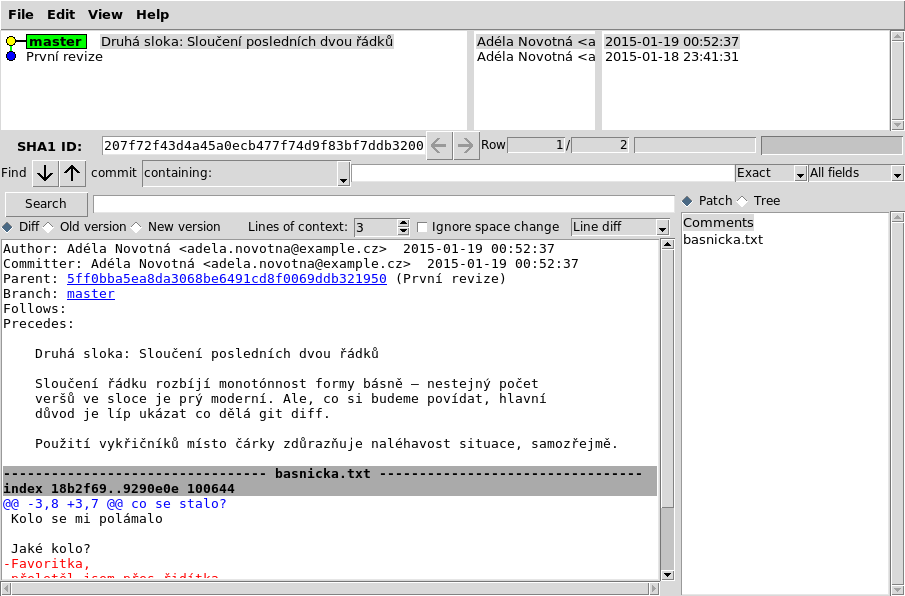
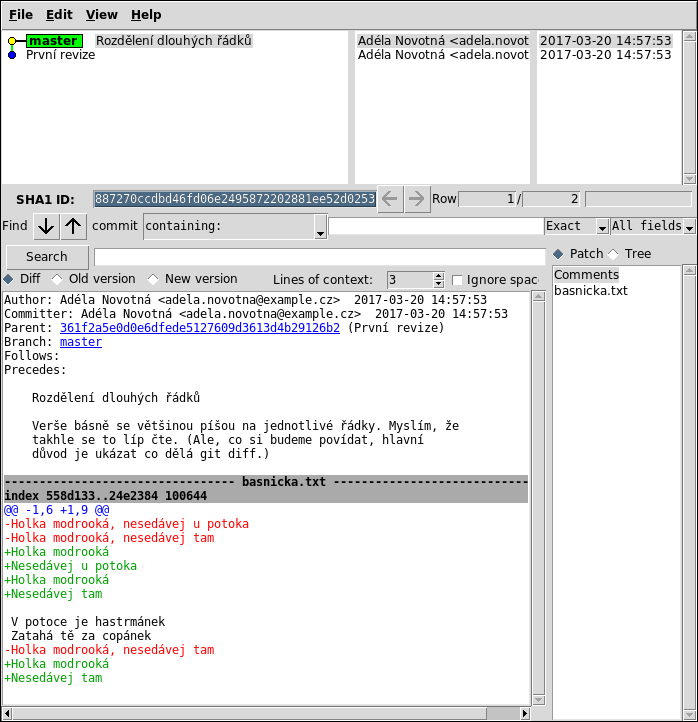
Use public-domain code example
Also, consolidate the example-generating script in one place

diff --git a/basics/index.md b/basics/index.md
@@ -141,8 +141,8 @@ Pojď tedy vytvořit revizi:
 
 ```ansi
 ␛[36m$␛[0m git commit
-[master (root-commit) 7465169] První revize
- 1 file changed, 11 insertions(+)
+[master (root-commit) 1a009f4] První revize
+ 1 file changed, 6 insertions(+)
  create mode 100644 basnicka.txt
 ```
 
@@ -196,29 +196,24 @@ To ti poví příkaz `git show`:
 
 ```ansi
 ␛[36m$␛[0m git show
-␛[33mcommit 7465169a16eb1ee39352ab3d23ced4d213960e9d␛[m
+␛[33mcommit 1a009f4267d5a6ab7ece87cb7514f5b803692e39␛[m
 Author: Adéla Novotná <adela.novotna@example.cz>
-Date:   Mon Mar 20 11:46:47 2017 +0100
+Date:   Mon Mar 20 14:51:34 2017 +0100
 
     První revize
 
 ␛[1mdiff --git a/basnicka.txt b/basnicka.txt␛[m
 ␛[1mnew file mode 100644␛[m
-␛[1mindex 0000000..18b2f69␛[m
+␛[1mindex 0000000..558d133␛[m
 ␛[1m--- /dev/null␛[m
 ␛[1m+++ b/basnicka.txt␛[m
-␛[36m@@ -0,0 +1,11 @@␛[m
-␛[32m+␛[m␛[32mHaló haló␛[m
-␛[32m+␛[m␛[32mco se stalo?␛[m
-␛[32m+␛[m␛[32mKolo se mi polámalo␛[m
+␛[36m@@ -0,0 +1,6 @@␛[m
+␛[32m+␛[m␛[32mHolka modrooká, nesedávej u potoka␛[m
+␛[32m+␛[m␛[32mHolka modrooká, nesedávej tam␛[m
 ␛[32m+␛[m
-␛[32m+␛[m␛[32mJaké kolo?␛[m
-␛[32m+␛[m␛[32mFavoritka,␛[m
-␛[32m+␛[m␛[32mpřeletěl jsem přes řidítka␛[m
-␛[32m+␛[m
-␛[32m+␛[m␛[32mCo jste dělal?␛[m
-␛[32m+␛[m␛[32mBlbnul jsem,␛[m
-␛[32m+␛[m␛[32mdo příkopy zahnul jsem␛[m
+␛[32m+␛[m␛[32mV potoce je hastrmánek␛[m
+␛[32m+␛[m␛[32mZatahá tě za copánek␛[m
+␛[32m+␛[m␛[32mHolka modrooká, nesedávej tam␛[m
 ```
 
 Vidíš unikátní
@@ -258,19 +253,22 @@ Na to nám odpoví příkaz <code>git diff</code>.
 ```ansi
 ␛[36m$␛[0m git diff
 ␛[1mdiff --git a/basnicka.txt b/basnicka.txt␛[m
-␛[1mindex 18b2f69..9290e0e 100644␛[m
+␛[1mindex 558d133..24e2384 100644␛[m
 ␛[1m--- a/basnicka.txt␛[m
 ␛[1m+++ b/basnicka.txt␛[m
-␛[36m@@ -3,8 +3,7 @@␛[m ␛[mco se stalo?␛[m
- Kolo se mi polámalo␛[m
+␛[36m@@ -1,6 +1,9 @@␛[m
+␛[31m-Holka modrooká, nesedávej u potoka␛[m
+␛[31m-Holka modrooká, nesedávej tam␛[m
+␛[32m+␛[m␛[32mHolka modrooká␛[m
+␛[32m+␛[m␛[32mNesedávej u potoka␛[m
+␛[32m+␛[m␛[32mHolka modrooká␛[m
+␛[32m+␛[m␛[32mNesedávej tam␛[m
  ␛[m
- Jaké kolo?␛[m
-␛[31m-Favoritka,␛[m
-␛[31m-přeletěl jsem přes řidítka␛[m
-␛[32m+␛[m␛[32mFavoritka! Přeletěl jsem přes řidítka!␛[m
- ␛[m
- Co jste dělal?␛[m
- Blbnul jsem,␛[m
+ V potoce je hastrmánek␛[m
+ Zatahá tě za copánek␛[m
+␛[31m-Holka modrooká, nesedávej tam␛[m
+␛[32m+␛[m␛[32mHolka modrooká␛[m
+␛[32m+␛[m␛[32mNesedávej tam␛[m
 ```
 
 Změny se ukazují po řádcích.
@@ -332,13 +330,11 @@ Cokoli, co může přijít vhod až se změny bude snažit někdo pochopit.
 Můj popisek bude znít takhle:
 
 ```plain
-Druhá sloka: Sloučení posledních dvou řádků
+Rozdělení dlouhých řádků
 
-Sloučení řádků rozbíjí monotónnost formy básně – nestejný počet
-veršů ve sloce je prý moderní. (Ale, co si budeme povídat, hlavní 
-důvod je líp ukázat co dělá `git diff`.)
-
-Použití vykřičníku místo čárky zdůrazňuje naléhavost situace.
+Verše básně se většinou píšou na jednotlivé řádky. Myslím, že
+takhle se to líp čte. (Ale, co si budeme povídat, hlavní 
+důvod je ukázat co dělá git diff.)
 ```
 
 !!! note ""
@@ -353,32 +349,33 @@ Pak ji zkontroluj:
 
 ```ansi
 ␛[36m$␛[0m git show
-␛[33mcommit 303761b29fb6ef0bfd961b311131c224b918ffc5␛[m
+␛[33mcommit 81cbabb3bd3cd2f3896dd41b20012c44dbd69031␛[m
 Author: Adéla Novotná <adela.novotna@example.cz>
-Date:   Mon Mar 20 11:46:47 2017 +0100
+Date:   Mon Mar 20 14:51:34 2017 +0100
 
-    Druhá sloka: Sloučení posledních dvou řádků
+    Rozdělení dlouhých řádků
     
-    Sloučení řádků rozbíjí monotónnost formy básně – nestejný počet
-    veršů ve sloce je prý moderní. (Ale, co si budeme povídat, hlavní
-    důvod je líp ukázat co dělá `git diff`.)
-    
-    Použití vykřičníku místo čárky zdůrazňuje naléhavost situace.
+    Verše básně se většinou píšou na jednotlivé řádky. Myslím, že
+    takhle se to líp čte. (Ale, co si budeme povídat, hlavní
+    důvod je ukázat co dělá git diff.)
 
 ␛[1mdiff --git a/basnicka.txt b/basnicka.txt␛[m
-␛[1mindex 18b2f69..9290e0e 100644␛[m
+␛[1mindex 558d133..24e2384 100644␛[m
 ␛[1m--- a/basnicka.txt␛[m
 ␛[1m+++ b/basnicka.txt␛[m
-␛[36m@@ -3,8 +3,7 @@␛[m ␛[mco se stalo?␛[m
- Kolo se mi polámalo␛[m
+␛[36m@@ -1,6 +1,9 @@␛[m
+␛[31m-Holka modrooká, nesedávej u potoka␛[m
+␛[31m-Holka modrooká, nesedávej tam␛[m
+␛[32m+␛[m␛[32mHolka modrooká␛[m
+␛[32m+␛[m␛[32mNesedávej u potoka␛[m
+␛[32m+␛[m␛[32mHolka modrooká␛[m
+␛[32m+␛[m␛[32mNesedávej tam␛[m
  ␛[m
- Jaké kolo?␛[m
-␛[31m-Favoritka,␛[m
-␛[31m-přeletěl jsem přes řidítka␛[m
-␛[32m+␛[m␛[32mFavoritka! Přeletěl jsem přes řidítka!␛[m
- ␛[m
- Co jste dělal?␛[m
- Blbnul jsem,␛[m
+ V potoce je hastrmánek␛[m
+ Zatahá tě za copánek␛[m
+␛[31m-Holka modrooká, nesedávej tam␛[m
+␛[32m+␛[m␛[32mHolka modrooká␛[m
+␛[32m+␛[m␛[32mNesedávej tam␛[m
 ```
 
 ## Diagram
@@ -398,22 +395,20 @@ v nich orientovat.
 První z nich je <code>git log</code>.
 
 ```ansi
-␛[36m$␛[0m git -c color.ui=always -c color.diff=always -c color.status=always log
-␛[33mcommit 303761b29fb6ef0bfd961b311131c224b918ffc5␛[m
+␛[36m$␛[0m git log
+␛[33mcommit 81cbabb3bd3cd2f3896dd41b20012c44dbd69031␛[m
 Author: Adéla Novotná <adela.novotna@example.cz>
-Date:   Mon Mar 20 11:46:47 2017 +0100
+Date:   Mon Mar 20 14:51:34 2017 +0100
 
-    Druhá sloka: Sloučení posledních dvou řádků
+    Rozdělení dlouhých řádků
     
-    Sloučení řádků rozbíjí monotónnost formy básně – nestejný počet
-    veršů ve sloce je prý moderní. (Ale, co si budeme povídat, hlavní
-    důvod je líp ukázat co dělá .)
-    
-    Použití vykřičníku místo čárky zdůrazňuje naléhavost situace.
+    Verše básně se většinou píšou na jednotlivé řádky. Myslím, že
+    takhle se to líp čte. (Ale, co si budeme povídat, hlavní
+    důvod je ukázat co dělá git diff.)
 
-␛[33mcommit 7465169a16eb1ee39352ab3d23ced4d213960e9d␛[m
+␛[33mcommit 1a009f4267d5a6ab7ece87cb7514f5b803692e39␛[m
 Author: Adéla Novotná <adela.novotna@example.cz>
-Date:   Mon Mar 20 11:46:47 2017 +0100
+Date:   Mon Mar 20 14:51:34 2017 +0100
 
     První revize
 ```
